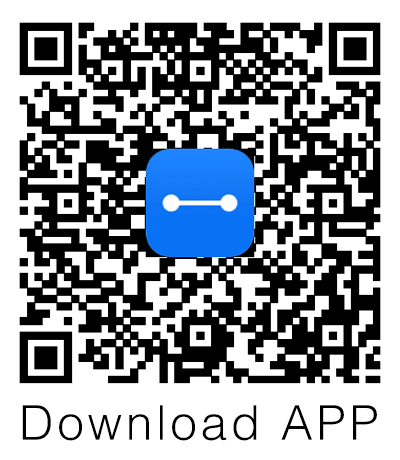
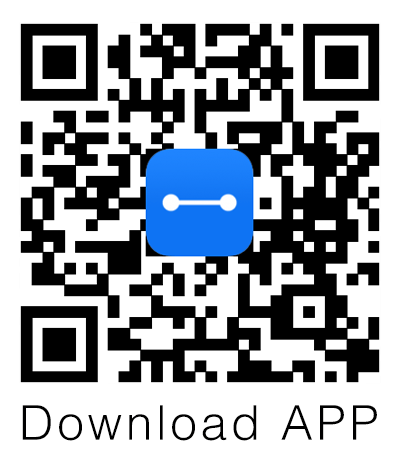
通过className区分内、外网二维码

diff --git a/app/styles/index.css b/app/styles/index.css
@@ -46,6 +46,7 @@ nav a { margin-left: 10px; }
 .online .pic-online { background-image: url(../images/intro-online.png); background-size: 753px auto; }
 .mobile .pic-mobile { background-image: url(../images/intro-mobile.png); background-size: 640px auto; }
 .mobile .qrcode-download { position: absolute; right: 0; margin-top: 8vmin; width: 120px; height: 138px; background: url(../images/qrcode-download.png) no-repeat; background-size: contain; }
+.env-ctqa .mobile .qrcode-download { background-image: url(../images/qrcode-ctqa.png); }
 
 /* About */
 .about { padding: 0 10%; background-color: #3dbe76; }

diff --git a/app/styles/main.css b/app/styles/main.css
@@ -245,6 +245,8 @@ i { font-style: normal; }
 .about-box { padding: 30px 0; }
 .about-box .box-title { padding: 10px 0; font-size: 28px; font-family: Microsoft Yahei, sans-serif; }
 .about-box p { padding: 10px 0; line-height: 1.5; font-size: 14px; }
+.about-box .about-qrcode-download { height: 200px; background: url(../images/qrcode-download.png) no-repeat -10px -10px; background-size: 200px auto; }
+.env-ctqa .about-box .about-qrcode-download { background-image: url(../images/qrcode-ctqa.png); }
 .about-box a { color: #014eb6; }
 
 /* Notification */

diff --git a/app/partials/pg-about.html b/app/partials/pg-about.html
@@ -9,8 +9,7 @@
 		</p>
 	</div>
 	<div class="about-box">
-		<h3 class="box-title">Download APP</h3>
-		<p><img src="images/qrcode-ctqa.png" width="200" /></p>
+		<p class="about-qrcode-download"></p>
 	</div>
 	<div class="about-box">
 		<h3 class="box-title">Feedback</h3>
